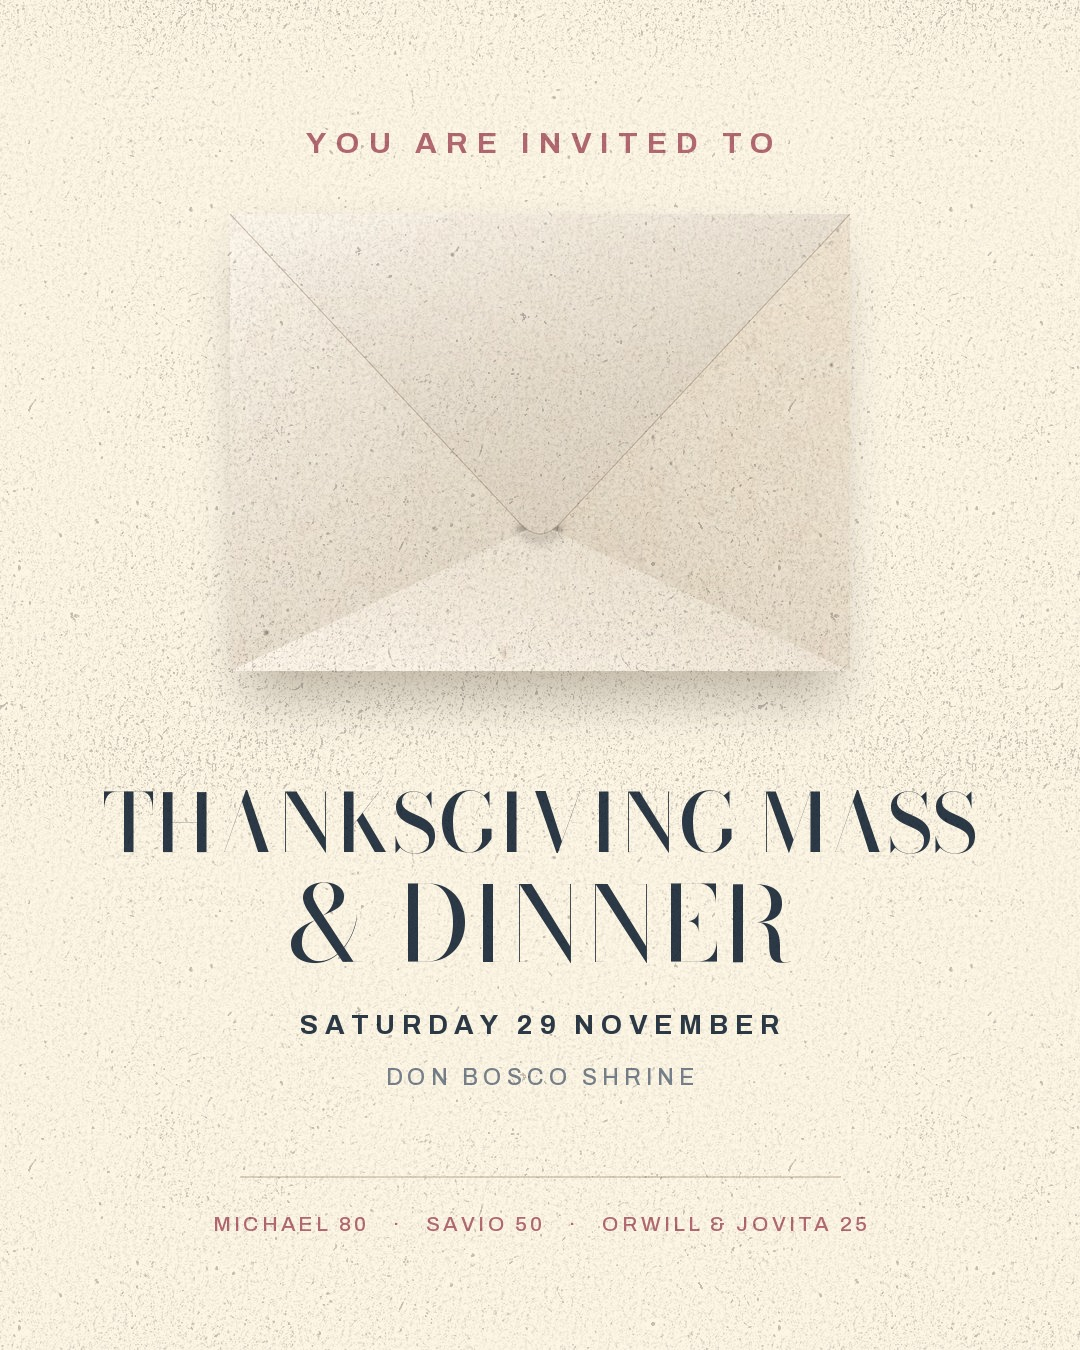
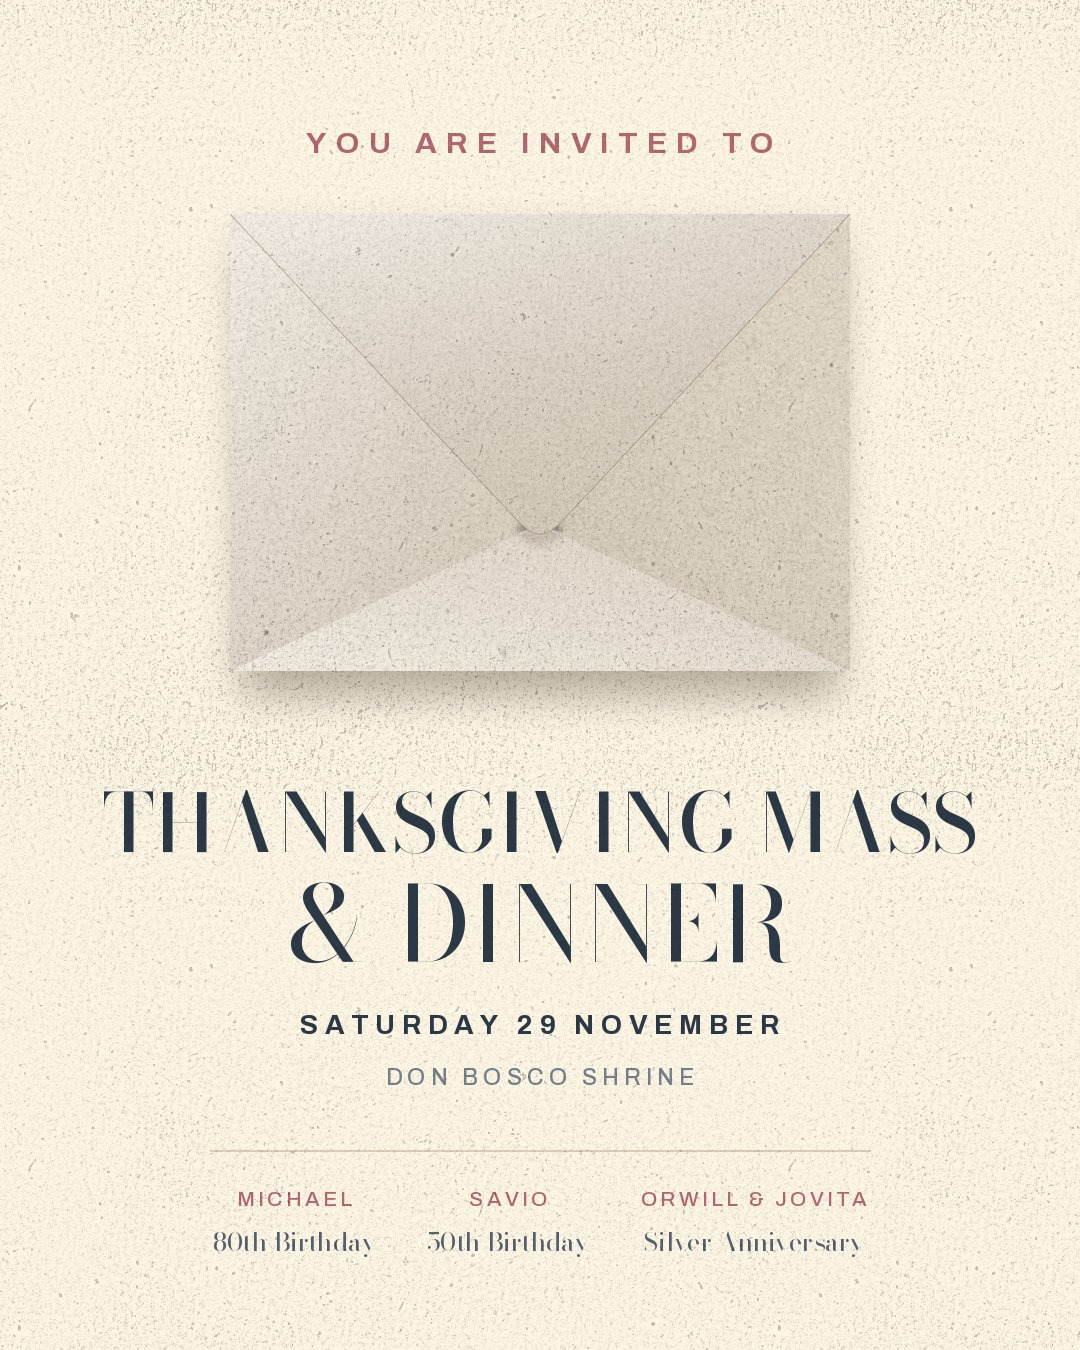
Lift the envelope off the field, and name the occasions
The stock was landing 1.5 levels off the cream in red -- the same colour as
the page it sat on, with only the creases telling the two apart. Dropped to
a clear step down and made a shade less yellow, so it reads as a different
paper rather than the same paper in shadow. The site's envelope uses the
same sheet and gains the same separation.

The numbers beside each name are gone. Each name now carries its occasion
on a second line in the display face -- 80th Birthday, 50th Birthday,
Silver Anniversary -- two voices rather than a label and a figure. Columns
are sized to their contents, since "ORWILL & JOVITA" is twice the name
"SAVIO" is and equal thirds left one gasping.

Changed region(s): [[0.5806, 0.8711, 0.7944, 0.9333], [0.1833, 0.8711, 0.3361, 0.9333], [0.3972, 0.8711, 0.5194, 0.9333]]

diff --git a/demo/index.html b/demo/index.html
@@ -563,7 +563,7 @@
         </filter>
       </defs>
       <g clip-path="url(#cRect)">
-        <image href="assets/env-paper.jpg?v=2" x="-95" y="-60" width="380" height="260"
+        <image href="assets/env-paper.jpg?v=3" x="-95" y="-60" width="380" height="260"
                preserveAspectRatio="none" transform="translate(20 15)"/>
         <rect x="0" y="0" width="190" height="140" fill="url(#gLining)"/>
       </g>
@@ -605,12 +605,12 @@
       </defs>
 
       <g clip-path="url(#cLeft)">
-        <image href="assets/env-paper.jpg?v=2" x="-95" y="-60" width="380" height="260"
+        <image href="assets/env-paper.jpg?v=3" x="-95" y="-60" width="380" height="260"
                preserveAspectRatio="none" transform="rotate(90 95 70) translate(-18 22)"/>
         <rect x="-2" y="-2" width="194" height="144" fill="url(#gLeft)"/>
       </g>
       <g clip-path="url(#cRight)">
-        <image href="assets/env-paper.jpg?v=2" x="-95" y="-60" width="380" height="260"
+        <image href="assets/env-paper.jpg?v=3" x="-95" y="-60" width="380" height="260"
                preserveAspectRatio="none" transform="rotate(-90 95 70) translate(24 -16)"/>
         <rect x="-2" y="-2" width="194" height="144" fill="url(#gRight)"/>
       </g>
@@ -619,7 +619,7 @@
       <path d="M0 140 L88.67 98 Q95 95 101.33 98 L190 140" transform="translate(0 -1.4)" fill="none" stroke="rgba(92,72,48,0.34)"
             stroke-width="1.5" filter="url(#fSoft)"/>
       <g clip-path="url(#cBottom)">
-        <image href="assets/env-paper.jpg?v=2" x="-95" y="-60" width="380" height="260"
+        <image href="assets/env-paper.jpg?v=3" x="-95" y="-60" width="380" height="260"
                preserveAspectRatio="none" transform="rotate(180 95 70) translate(-22 -18)"/>
         <rect x="-2" y="-2" width="194" height="144" fill="url(#gBottom)"/>
       </g>
@@ -645,7 +645,7 @@
       <path d="M0 0 L88.85 94.68 Q95 101.23 101.15 94.68 L190 0" transform="translate(0 2)"
             fill="none" stroke="rgba(74,56,36,0.38)" stroke-width="2.1" filter="url(#pSoft)"/>
       <g clip-path="url(#cFlap)">
-        <image href="assets/env-paper.jpg?v=2" x="-95" y="-60" width="380" height="260"
+        <image href="assets/env-paper.jpg?v=3" x="-95" y="-60" width="380" height="260"
                preserveAspectRatio="none" transform="translate(-26 -22)"/>
         <rect x="-2" y="-2" width="194" height="144" fill="url(#gFlap)"/>
       </g>

diff --git a/tools/make-cards.py b/tools/make-cards.py
@@ -127,6 +127,47 @@ def fit(d, text, path, target, tr=0.0, cap=400):
     return lo
 
 
+
+THREE = (('MICHAEL', '80th Birthday'),
+         ('SAVIO', '50th Birthday'),
+         ('ORWILL & JOVITA', 'Silver Anniversary'))
+
+def trio(d, left, right, y, name_px, occ_px):
+    """Three columns: the name in the micro face, the occasion under it in
+    the display face. Two voices, so the second line reads as the answer to
+    the first rather than more of the same.
+
+    Columns are sized to their contents, not cut into equal thirds --
+    "ORWILL & JOVITA" is twice the name "SAVIO" is, and equal thirds leave
+    one column gasping while the others sit half empty."""
+    inner = right - left
+    gap = inner * 0.078
+
+    def widths(npx, opx):
+        out = []
+        for name, occ in THREE:
+            fn = ImageFont.truetype(ARCHIVO5, npx)
+            tr = npx*0.16
+            wn = sum(d.textlength(c, font=fn) for c in name) + tr*(len(name)-1)
+            wo = d.textlength(occ, font=ImageFont.truetype(BODONI4, opx))
+            out.append(max(wn, wo))
+        return out
+
+    w = widths(name_px, occ_px)
+    over = (sum(w) + 2*gap) / inner
+    if over > 1:                      # shrink both faces together, never one
+        name_px = max(9, int(name_px/over)); occ_px = max(10, int(occ_px/over))
+        w = widths(name_px, occ_px)
+
+    x = left + (inner - sum(w) - 2*gap)/2.0
+    fn = ImageFont.truetype(ARCHIVO5, name_px)
+    fo = ImageFont.truetype(BODONI4, occ_px)
+    for (name, occ), cw in zip(THREE, w):
+        cx = x + cw/2.0
+        track(d, cx, y, name, fn, ROSE, name_px*0.16)
+        centre(d, cx, y + int(name_px*1.62), occ, fo, (86, 98, 112))
+        x += cw + gap
+
 # ---------------------------------------------------------------- the card
 _grain = Image.open(os.path.join(D, 'assets/paper.jpg')).convert('L')
 
@@ -140,9 +181,9 @@ def card(W, H, env_w, layout, path, jpeg=False):
 
     # the envelope's weight on the table
     sh = Image.new('RGBA', (W, H), (0,0,0,0))
-    sh.paste((74,56,36,78), (ex+int(env_w*0.03), ey+int(env_w*0.055),
-                             ex+env_w-int(env_w*0.03), ey+env.height+int(env_w*0.04)))
-    sh = sh.filter(ImageFilter.GaussianBlur(env_w*0.04))
+    sh.paste((74,56,36,96), (ex+int(env_w*0.025), ey+int(env_w*0.045),
+                             ex+env_w-int(env_w*0.025), ey+env.height+int(env_w*0.035)))
+    sh = sh.filter(ImageFilter.GaussianBlur(env_w*0.032))
     im.paste(Image.alpha_composite(im.convert('RGBA'), sh).convert('RGB'), (0,0))
     im.paste(env, (ex, ey), env)
     d = ImageDraw.Draw(im)
@@ -170,9 +211,8 @@ def card(W, H, env_w, layout, path, jpeg=False):
     # the three reasons, so the occasion is never in doubt
     y = layout['who_y']
     d.line([(cx-layout['rule'], y), (cx+layout['rule'], y)], fill=(222,208,186), width=2)
-    f_o = ImageFont.truetype(ARCHIVO5, layout['who'])
-    track(d, cx, y + layout['who']*1.7,
-          "MICHAEL 80   ·   SAVIO 50   ·   ORWILL & JOVITA 25", f_o, ROSE, layout['who']*0.16)
+    trio(d, cx-layout['rule'], cx+layout['rule'], int(y + layout['who']*1.8),
+         layout['who'], layout['occ'])
 
     # the same grain the page wears
     g = np.tile(np.asarray(_grain, np.float32),
@@ -190,17 +230,17 @@ OUT = os.path.join(D, 'assets')
 # so it is the biggest the card can ever render in a chat.
 print(card(1080, 1350, 620, dict(margin=96, env_y=214, eyebrow=30, eyebrow_y=126,
       head=104, head_y=760, head_lead=1.06, foot_y=1010, when=27, where=23,
-      who_y=1176, who=21, rule=300), os.path.join(OUT,'share-chat.jpg'), jpeg=True))
+      who_y=1150, who=21, occ=26, rule=330), os.path.join(OUT,'share-chat.jpg'), jpeg=True))
 
 # 1:1 -- never cropped anywhere: chat, profile, a forwarded post
-print(card(1080, 1080, 496, dict(margin=96, env_y=172, eyebrow=27, eyebrow_y=98,
-      head=86, head_y=620, head_lead=1.06, foot_y=866, when=25, where=21,
-      who_y=976, who=20, rule=270), os.path.join(OUT,'share-square.jpg'), jpeg=True))
+print(card(1080, 1080, 466, dict(margin=96, env_y=150, eyebrow=27, eyebrow_y=90,
+      head=84, head_y=566, head_lead=1.06, foot_y=806, when=25, where=21,
+      who_y=922,  who=19, occ=24, rule=318), os.path.join(OUT,'share-square.jpg'), jpeg=True))
 
 # 9:16 -- Status
 print(card(1080, 1920, 640, dict(margin=110, env_y=372, eyebrow=32, eyebrow_y=250,
       head=110, head_y=960, head_lead=1.06, foot_y=1240, when=29, where=25,
-      who_y=1400, who=23, rule=320), os.path.join(OUT,'share-status.jpg'), jpeg=True))
+      who_y=1372, who=22, occ=28, rule=360), os.path.join(OUT,'share-status.jpg'), jpeg=True))
 
 
 # ------------------------------------------------- the link preview, 1.91:1
@@ -210,7 +250,7 @@ def wide(path):
     im = Image.new('RGB', (W, H), VANILLA)
     env_w = 330
     env = envelope(env_w)
-    ex, ey = 96, (H - env.height)//2
+    ex, ey = 96, (H - env.height)//2 + 26
     sh = Image.new('RGBA', (W, H), (0,0,0,0))
     sh.paste((74,56,36,78), (ex+10, ey+18, ex+env_w-10, ey+env.height+14))
     sh = sh.filter(ImageFilter.GaussianBlur(env_w*0.04))
@@ -240,9 +280,8 @@ def wide(path):
     f_p = ImageFont.truetype(ARCHIVO5, 21)
     ltrack(426, 'DON BOSCO SHRINE', f_p, (120,130,140), 21*0.22)
 
-    d.line([(x, 486), (right, 486)], fill=(222,208,186), width=2)
-    f_o = ImageFont.truetype(ARCHIVO5, 19)
-    ltrack(516, 'MICHAEL 80   ·   SAVIO 50   ·   ORWILL & JOVITA 25', f_o, ROSE, 19*0.16)
+    d.line([(x, 480), (right, 480)], fill=(222,208,186), width=2)
+    trio(d, x, right, 512, 18, 21)
 
     g = np.tile(np.asarray(_grain, np.float32),
                 (H//_grain.height+1, W//_grain.width+1))[:H, :W]

diff --git a/README.md b/README.md
@@ -69,7 +69,9 @@ demo/
   wireframe.js    the 3D wireframe marks: flutes, heart, disco ball, rings
   assets/
     fonts/        Bodoni Moda + Archivo, variable, subset to woff2
-    env-paper.jpg the envelope stock; five folds are cut from this one sheet
+    env-paper.jpg the envelope stock; five folds are cut from this one sheet,
+                  and it is held a clear step below the cream so the two
+                  surfaces never read as one
     paper.jpg     the page's grain, a seamless tile
     preview.jpg   1200x630, what the link bubble pulls
     share-*.jpg   the cards you send in the message
